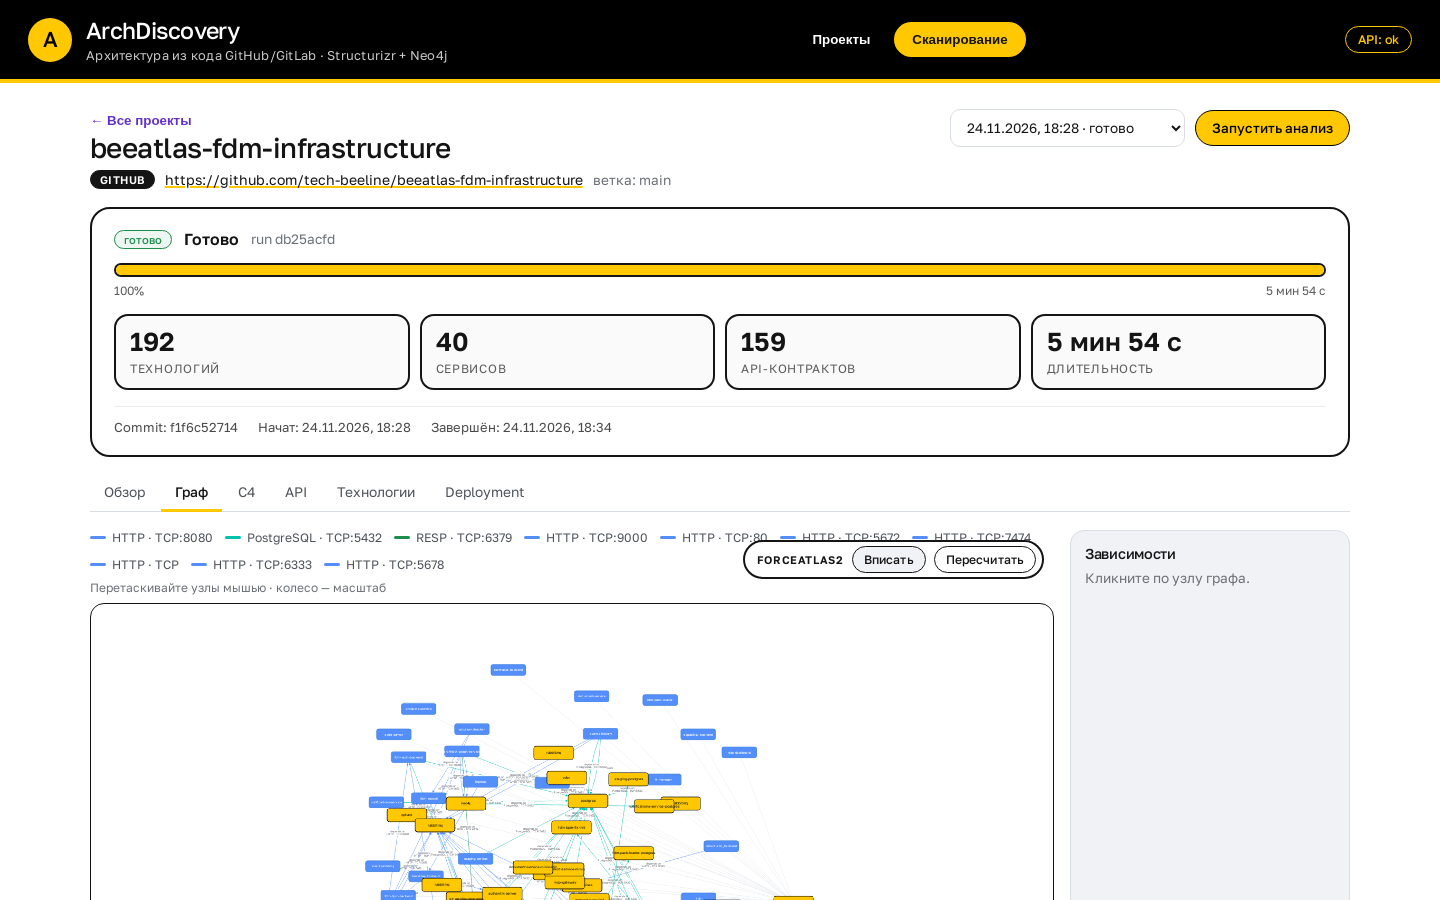
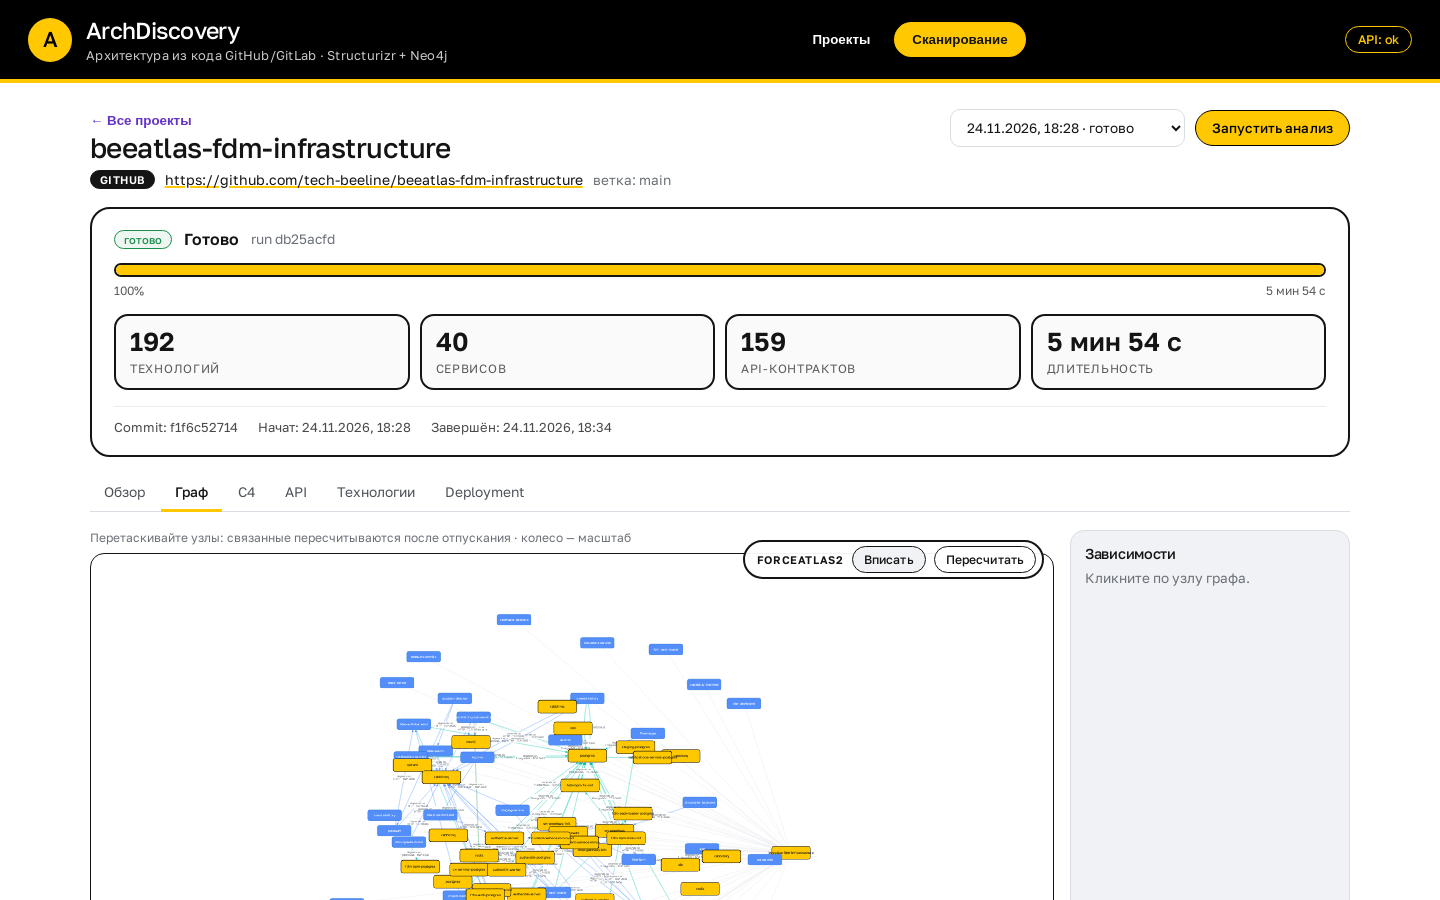
feat(graph): убрать легенду и пересчитывать соседей при drag
- удалена легенда технологий над графом
- после dragfree 2-hop соседи пересчитываются ForceAtlas2:
  перемещённый узел зафиксирован, остальные анимируются
- обновлены ADR-0019, README, CHANGELOG и скриншоты

diff --git a/web/src/components/GraphView.tsx b/web/src/components/GraphView.tsx
@@ -1,7 +1,7 @@
 import cytoscape from "cytoscape";
 import { MultiGraph } from "graphology";
 import forceAtlas2 from "graphology-layout-forceatlas2";
-import { useEffect, useMemo, useRef, useState } from "react";
+import { useEffect, useRef, useState } from "react";
 
 import { api } from "../api";
 import type { Dependency } from "../types";
@@ -62,22 +62,25 @@ function relationDetails(properties: Record<string, unknown>): EdgeDetails {
   };
 }
 
-interface LegendItem {
-  label: string;
-  color: string;
+function nodeSize(kind: string): number {
+  return kind === "system" ? 60 : kind === "container" ? 45 : 30;
 }
 
-function collectLegend(workspace: Record<string, unknown>): LegendItem[] {
-  const model = (workspace as { model?: Record<string, unknown> }).model ?? {};
-  const seen = new Map<string, string>();
-  for (const relationship of asArray(model.relationships)) {
-    const properties = (relationship.properties ?? {}) as Record<string, unknown>;
-    const { detail, color } = relationDetails(properties);
-    if (detail && !seen.has(detail)) {
-      seen.set(detail, color);
-    }
-  }
-  return [...seen.entries()].map(([label, color]) => ({ label, color }));
+function forceSettings(order: number) {
+  const inferred = forceAtlas2.inferSettings(order);
+  return {
+    ...inferred,
+    barnesHutOptimize: true,
+    barnesHutTheta: 0.8,
+    adjustSizes: true,
+    scalingRatio: 12,
+    gravity: 0.6,
+    strongGravityMode: false,
+    linLogMode: true,
+    outboundAttractionDistribution: true,
+    edgeWeightInfluence: 0.7,
+    slowDown: 2,
+  };
 }
 
 export function GraphView({ runId, workspace }: GraphViewProps) {
@@ -87,7 +90,6 @@ export function GraphView({ runId, workspace }: GraphViewProps) {
   const [dependencies, setDependencies] = useState<Dependency[]>([]);
   const [error, setError] = useState<string | null>(null);
   const [layoutRun, setLayoutRun] = useState(0);
-  const legend = useMemo(() => collectLegend(workspace), [workspace]);
 
   useEffect(() => {
     if (!containerRef.current) {
@@ -174,7 +176,7 @@ export function GraphView({ runId, workspace }: GraphViewProps) {
       layoutGraph.addNode(String(node.data.id), {
         x: Math.cos(angle) * radius,
         y: Math.sin(angle) * radius,
-        size: kind === "system" ? 60 : kind === "container" ? 45 : 30,
+        size: nodeSize(kind),
       });
     });
     for (const edge of edges) {
@@ -188,22 +190,10 @@ export function GraphView({ runId, workspace }: GraphViewProps) {
       });
     }
     if (layoutGraph.order > 1) {
-      const inferred = forceAtlas2.inferSettings(layoutGraph.order);
       forceAtlas2.assign(layoutGraph, {
         iterations: Math.min(1000, Math.max(300, layoutGraph.order * 8)),
-        settings: {
-          ...inferred,
-          barnesHutOptimize: true,
-          barnesHutTheta: 0.8,
-          adjustSizes: true,
-          scalingRatio: 12,
-          gravity: 0.6,
-          strongGravityMode: false,
-          linLogMode: true,
-          outboundAttractionDistribution: true,
-          edgeWeightInfluence: 0.7,
-          slowDown: 2,
-        },
+        settings: forceSettings(layoutGraph.order),
+
       });
     }
     const positions: Record<string, { x: number; y: number }> = {};
@@ -318,6 +308,64 @@ export function GraphView({ runId, workspace }: GraphViewProps) {
 
     cyRef.current = cy;
 
+    const relayoutAround = (nodeId: string) => {
+      const root = cy.getElementById(nodeId);
+      if (root.empty()) {
+        return;
+      }
+      const neighbourhood = root
+        .closedNeighborhood()
+        .nodes()
+        .union(root.neighborhood().nodes().neighborhood().nodes());
+      const graph = new MultiGraph();
+      neighbourhood.forEach((node) => {
+        const position = node.position();
+        graph.addNode(node.id(), {
+          x: position.x,
+          y: position.y,
+          size: nodeSize(String(node.data("kind") ?? "")),
+          fixed: node.id() === nodeId,
+        });
+      });
+      if (graph.order < 2) {
+        return;
+      }
+      cy.edges().forEach((edge) => {
+        const source = edge.source().id();
+        const target = edge.target().id();
+        if (graph.hasNode(source) && graph.hasNode(target)) {
+          graph.addEdgeWithKey(edge.id(), source, target, {
+            weight: edge.hasClass("parent") ? 0.7 : 1,
+          });
+        }
+      });
+      forceAtlas2.assign(graph, {
+        iterations: 120,
+        settings: forceSettings(graph.order),
+      });
+      graph.forEachNode((node, attributes) => {
+        if (node === nodeId) {
+          return;
+        }
+        const target = cy.getElementById(node);
+        if (!target.empty()) {
+          target.animate(
+            {
+              position: {
+                x: Number(attributes.x) || 0,
+                y: Number(attributes.y) || 0,
+              },
+            },
+            { duration: 300 },
+          );
+        }
+      });
+    };
+
+    cy.on("dragfree", "node", (event) => {
+      relayoutAround(String(event.target.id()));
+    });
+
     cy.ready(() => {
       cy.fit(undefined, 60);
       if (cy.zoom() > 1.4) {
@@ -368,19 +416,6 @@ export function GraphView({ runId, workspace }: GraphViewProps) {
   return (
     <div className="graph-layout">
       <div className="graph-main">
-        {legend.length > 0 && (
-          <div className="legend">
-            {legend.map((item) => (
-              <span key={item.label} className="legend-item">
-                <span
-                  className="legend-swatch"
-                  style={{ background: item.color }}
-                />
-                {item.label}
-              </span>
-            ))}
-          </div>
-        )}
         <div className="graph-toolbar">
           <span className="graph-layout-badge">ForceAtlas2</span>
           <button
@@ -397,7 +432,7 @@ export function GraphView({ runId, workspace }: GraphViewProps) {
           </button>
         </div>
         <p className="graph-hint muted">
-          Перетаскивайте узлы мышью · колесо — масштаб
+          Перетаскивайте узлы: связанные пересчитываются после отпускания · колесо — масштаб
         </p>
         <div ref={containerRef} className="graph-canvas" />
       </div>

diff --git a/web/src/styles.css b/web/src/styles.css
@@ -550,23 +550,6 @@ p {
   gap: 8px;
   min-width: 0;
 }
-.legend {
-  display: flex;
-  flex-wrap: wrap;
-  gap: 12px;
-  font-size: 0.76rem;
-  color: var(--muted);
-}
-.legend-item {
-  display: inline-flex;
-  align-items: center;
-  gap: 6px;
-}
-.legend-swatch {
-  width: 16px;
-  height: 3px;
-  border-radius: 2px;
-}
 .graph-hint {
   margin: 0;
   font-size: 12px;

diff --git a/README.md b/README.md
@@ -42,8 +42,9 @@ make smoke
   прогресс-бар, длительность, счётчики технологий/сервисов/API. Для активного
   запуска данные обновляются каждые 2.5 с; после завершения доступны вкладки:
   **Обзор**, **Граф**, **C4**, **API**, **Технологии**, **Deployment**.
-  **Граф** — раскладка ForceAtlas2, узлы можно перетаскивать, кнопки «Вписать»
-  и «Пересчитать»; клик по узлу показывает транзитивные зависимости.
+  **Граф** — раскладка ForceAtlas2, узлы перетаскиваются; после отпускания
+  связанные узлы пересчитываются ForceAtlas2; кнопки «Вписать» и «Пересчитать»;
+  клик по узлу показывает транзитивные зависимости.
   **API** — каталог всех операций: поиск, фильтры по сервису/методу/источнику,
   пагинация; клик по строке → параметры, тело запроса и схемы ответов; deep link
   `?op=...`.

diff --git a/docs/adr/0019-forceatlas2-graph.md b/docs/adr/0019-forceatlas2-graph.md
@@ -29,6 +29,9 @@
 - Cytoscape остаётся рендерером: раскладка `preset` с полученными координатами,
   поэтому сохраняются стили, подписи, клики и drill-down.
 - Узлы **grabbable** (`autoungrabify: false`, `grabbable: true`), курсор `grab`.
+- После `dragfree` пересчитываются **связанные узлы** (2-hop neighborhood):
+  перемещаемый узел фиксируется, остальные пересчитываются ForceAtlas2 и
+  анимируются. Легенда технологий над графом убрана.
 - Начальные позиции — детерминированная спираль; кнопка «Пересчитать» меняет seed,
   «Вписать» возвращает весь граф в видимую область.
 - Параметры: `adjustSizes`, `scalingRatio: 12`, `gravity: 0.6`, `linLogMode`,

diff --git a/CHANGELOG.md b/CHANGELOG.md
@@ -5,7 +5,8 @@
 ### Added
 
 - **Граф: ForceAtlas2** (`graphology-layout-forceatlas2`) вместо breadthfirst;
-  узлы перетаскиваются мышью, кнопки «Вписать» и «Пересчитать», подсказка по управлению.
+  узлы перетаскиваются, после отпускания связанные пересчитываются ForceAtlas2;
+  кнопки «Вписать»/«Пересчитать»; легенда технологий над графом убрана.
 - **API-каталог**: все операции из OpenAPI/annotations/gRPC/GraphQL в одной таблице
   с поиском, фильтрами по сервису/методу/источнику, пагинацией и панелью деталей
   (параметры, body, ответы, схемы). Deep link через `?api=&op=`, Redoc удалён.
